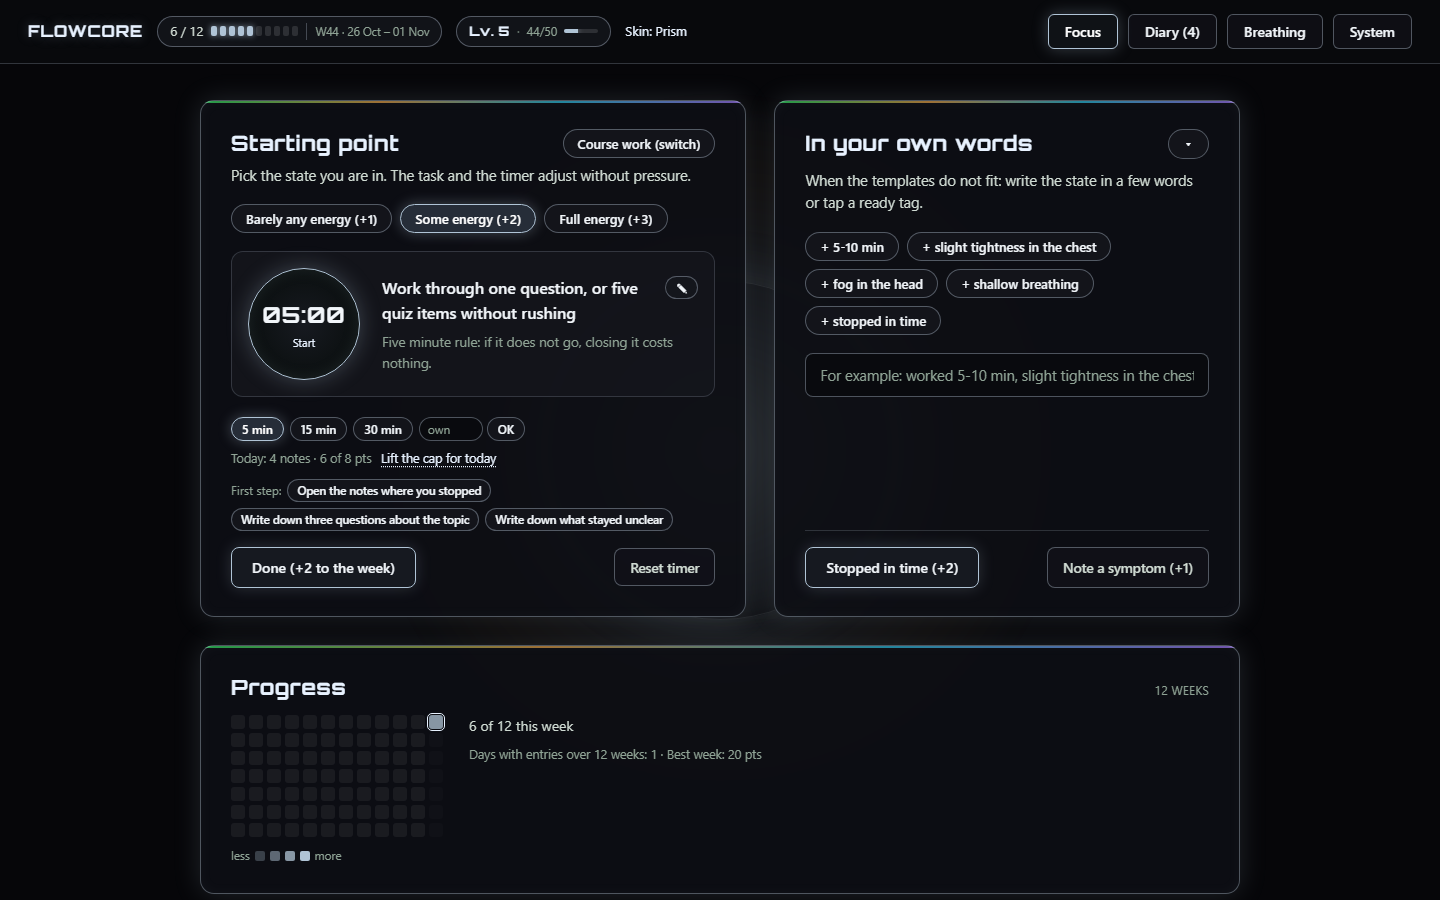
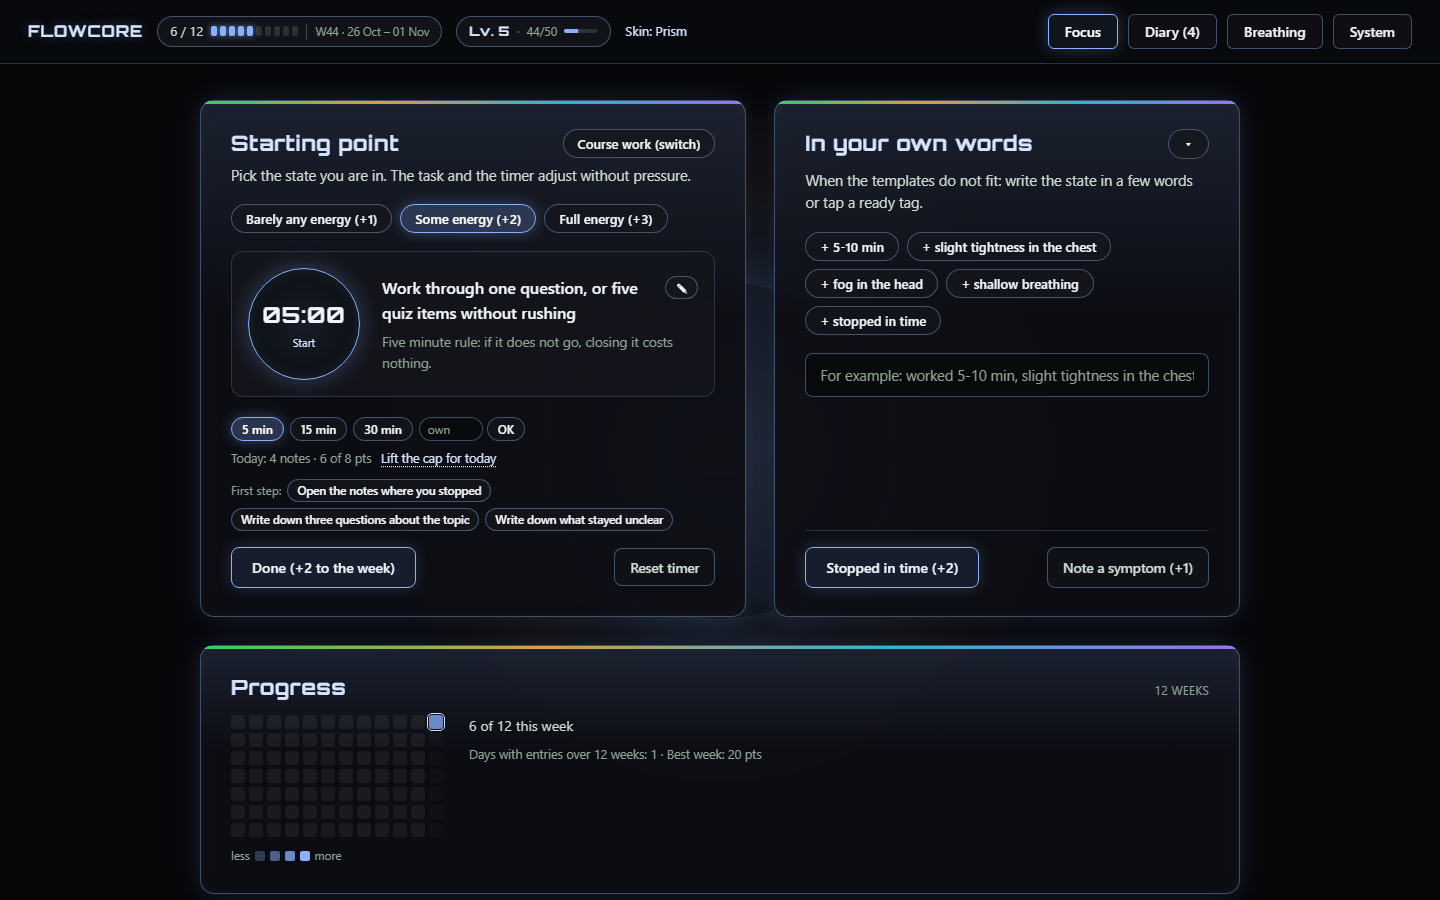
docs(flowcore): the screenshots show the blue prism and the diary emoji row
Prism changed colour, so the shot that claims to show it had to change too, and
the diary now carries a row of signs under the quick note. The text gained the
System switch for that row, the blue-violet palette, and numbers that match the
file: 333 KB, 98 KB over gzip, 415 checks.

diff --git a/README.ru.md b/README.ru.md
@@ -8,7 +8,7 @@
 
 *English version: [README.md](README.md).*
 
-Выбери сферу, скажи, сколько сегодня сил, и сделай один пятиминутный шаг. Очки копятся на неделю, пропущенный день ничего не отнимает, а ранний стоп считается отдыхом, а не провалом. Всё приложение — один HTML-файл на 329 КБ: без сборки, сервера и зависимостей.
+Выбери сферу, скажи, сколько сегодня сил, и сделай один пятиминутный шаг. Очки копятся на неделю, пропущенный день ничего не отнимает, а ранний стоп считается отдыхом, а не провалом. Всё приложение — один HTML-файл на 333 КБ: без сборки, сервера и зависимостей.
 
 ## Что умеет
 
@@ -23,7 +23,7 @@
 
 **Первый шаг вместо «поработать».** К задаче прилагаются три конкретных физических действия («открыть редактор», «прочитать последний абзац»). Пять минут считаются работой, даже если дальше не пошло.
 
-**Заметка прямо у задачи.** Карандаш рядом с задачей открывает строку на месте, с восемью эмодзи, которые вставляются в текст. Заметка ложится в дневник под названием сферы и очков не даёт: это память, а не выполненный шаг.
+**Заметка прямо у задачи.** Карандаш рядом с задачей открывает строку на месте, с восемью эмодзи, которые вставляются в текст. Заметка ложится в дневник под названием сферы и очков не даёт: это память, а не выполненный шаг. Ряд эмодзи необязателен и выключается в «Системе»; в быстрой пометке дневника те же восемь знаков.
 
 **Вторая карточка уходит с дороги.** «Своими словами» сворачивается в полосу и отдаёт ширину таймеру, выбор запоминается. По умолчанию она развёрнута: прятать способ записать — не моё решение.
 
@@ -33,7 +33,7 @@
 
 **Мягкий потолок дня: 8 очков.** После него записи идут дальше, но очки не растут — длина работы перестаёт быть единственной наградой. На хорошем дне потолок снимается одним кликом на строке «сегодня» до полуночи, а назавтра включается сам. Есть опция «очки только за отработанное время»: «Выполнено» даст очки, только если таймер честно отработал 5 минут.
 
-**Уровень за всё время.** 10 опыта = уровень; опыт считается из всех очков за всю историю и не сгорает с неделей. Уровень открывает скины: изумруд (1), янтарь (3), призма (5), кибер (6), аврора (10) — каждый меняет палитру целиком, включая фоновую пульсацию. У призмы панель нейтральная, а по верху каждой карточки идёт тонкая статичная полоса из всех четырёх палитр.
+**Уровень за всё время.** 10 опыта = уровень; опыт считается из всех очков за всю историю и не сгорает с неделей. Уровень открывает скины: изумруд (1), янтарь (3), призма (5), кибер (6), аврора (10) — каждый меняет палитру целиком, включая фоновую пульсацию. У призмы панель сине-фиолетовая, а по верху каждой карточки идёт статичная полоса из всех четырёх палитр.
 
 **Отдых приносит очки.** За спокойный вчерашний день (≤6 очков) или за «вовремя остановился» начисляется заряд отдыха (до 3). Заряд добавляет +1 к следующему шагу внутри дневного лимита — быстрее закрыть норму и пойти отдыхать, а не сидеть дольше.
 
@@ -116,7 +116,7 @@ python serve.py --lan      # доступ в домашней сети по http
 node tests/run.js
 ```
 
-Сейчас **403 проверки**: недельный ролловер и архив, миграция старых бэкапов, замок, дневной потолок и его снятие на день, уровень и скины, резерв, бонус отдыха, заметка к задаче и набор эмодзи, методики дыхания и фазы, шум с общим выключателем звука, экспорт в Markdown, редактор сфер, интервью первого запуска, словарь на четыре языка (все ключи из разметки и кода на месте, склонения через `Intl.PluralRules`). Тесты вырезают скрипт из настоящего `flowcore.html`, поэтому проверяют именно тот файл, который открывает браузер.
+Сейчас **415 проверок**: недельный ролловер и архив, миграция старых бэкапов, замок, дневной потолок и его снятие на день, уровень и скины, резерв, бонус отдыха, заметка к задаче и набор эмодзи, методики дыхания и фазы, шум с общим выключателем звука, экспорт в Markdown, редактор сфер, интервью первого запуска, словарь на четыре языка (все ключи из разметки и кода на месте, склонения через `Intl.PluralRules`). Тесты вырезают скрипт из настоящего `flowcore.html`, поэтому проверяют именно тот файл, который открывает браузер.
 
 Те же проверки запускаются на GitHub Actions при каждом push и pull request — файл `.github/workflows/tests.yml`. Сборки нет, поэтому шагов всего три: checkout, Node, `node tests/run.js`.
 
@@ -125,7 +125,7 @@ node tests/run.js
 - Интерфейс на четырёх языках — русский, украинский, английский, немецкий. Новый язык — это ещё одна колонка в словаре, но готового перевода на другие пока нет.
 - Данные живут в одном браузере: очистка профиля или «сайт-данных» их удалит. Раз в неделю стоит скачивать бэкап JSON.
 - Синхронизации между устройствами нет — это осознанно, чтобы не появлялось сервера и аккаунта.
-- Всё в одном файле: правки удобны, но файл уже большой — около 329 КБ, в gzip примерно 96 КБ.
+- Всё в одном файле: правки удобны, но файл уже большой — около 333 КБ, в gzip примерно 98 КБ.
 
 ## Лицензия
 

diff --git a/README.md b/README.md
@@ -8,7 +8,7 @@
 
 *Русская версия: [README.ru.md](README.ru.md).*
 
-Pick one of your areas, say how much energy you have today, and do a single five-minute step. Points collect over the week, a missed day takes nothing away, and an early stop counts as rest, not as failure. The whole app is one 329 KB HTML file: no build, no server, no dependencies.
+Pick one of your areas, say how much energy you have today, and do a single five-minute step. Points collect over the week, a missed day takes nothing away, and an early stop counts as rest, not as failure. The whole app is one 333 KB HTML file: no build, no server, no dependencies.
 
 ## What it does
 
@@ -23,7 +23,7 @@ If you are in a hurry:
 
 **A first step instead of "go work".** Each task comes with three concrete physical actions: open the editor, read the last paragraph, write down one question. Five minutes count as work even if you stop right there.
 
-**A note on the task itself.** The pencil next to the task opens a line right there, with eight emoji that insert into the text. The note lands in the diary under the area's name and gives no points: it is memory, not a finished step.
+**A note on the task itself.** The pencil next to the task opens a line right there, with eight emoji that insert into the text. The note lands in the diary under the area's name and gives no points: it is memory, not a finished step. The row of emoji is optional and switches off in System; the quick note in the diary offers the same eight signs.
 
 **The second card steps aside.** "In your own words" collapses into a strip and hands its width to the timer, and the choice is remembered. It starts expanded, because hiding a way to log is not a decision to make for someone else.
 
@@ -33,7 +33,7 @@ If you are in a hurry:
 
 **A soft cap of 8 points a day.** Past it, notes keep going in and points stop growing, so the length of work stops being the only reward. On a day that is going well the cap can be lifted until midnight with one click on the today line; the next day it is back on its own. An optional strict mode gives points only for the time the timer actually ran.
 
-**A level for all time.** 10 experience points make a level, counted from every point you ever earned, so a new week does not burn it. Levels unlock skins: emerald (1), amber (3), prism (5), cyber (6), aurora (10). Each one changes the whole palette, the background pulse included; prism keeps the panel neutral and gives each card a thin static line of all four palettes.
+**A level for all time.** 10 experience points make a level, counted from every point you ever earned, so a new week does not burn it. Levels unlock skins: emerald (1), amber (3), prism (5), cyber (6), aurora (10). Each one changes the whole palette, the background pulse included; prism turns the panel blue-violet and gives each card a thin static line of all four palettes.
 
 **Rest earns points.** A calm yesterday (6 points or fewer) or an early stop charges the rest bonus, up to 3. A charge adds +1 to your next step inside the daily cap, which closes the day sooner instead of pushing you to sit longer.
 
@@ -116,7 +116,7 @@ On Windows, `FlowCore.cmd` does the same from a double click.
 node tests/run.js
 ```
 
-There are **403 checks**: week rollover and the archive, migration of older backups, the lock, the daily cap and lifting it for a day, level and skins, the reserve, the rest bonus, the task note and its emoji set, breathing techniques and their phases, noise under the master sound switch, Markdown export, the area editor, the first-run interview, and the dictionary in four languages (every key from the markup and the code exists, plurals go through `Intl.PluralRules`). The tests cut the script out of the real `flowcore.html`, so they check the file the browser actually opens.
+There are **415 checks**: week rollover and the archive, migration of older backups, the lock, the daily cap and lifting it for a day, level and skins, the reserve, the rest bonus, the task note and its emoji set, breathing techniques and their phases, noise under the master sound switch, Markdown export, the area editor, the first-run interview, and the dictionary in four languages (every key from the markup and the code exists, plurals go through `Intl.PluralRules`). The tests cut the script out of the real `flowcore.html`, so they check the file the browser actually opens.
 
 The same checks run on GitHub Actions for every push and pull request, see `.github/workflows/tests.yml`. There is no build, so the job is three steps.
 
@@ -125,7 +125,7 @@ The same checks run on GitHub Actions for every push and pull request, see `.git
 - Four interface languages: Russian, Ukrainian, English, German. Another language is one more column in the dictionary, but no other translation exists yet.
 - Data lives in one browser. Clearing the profile or the site data removes it, so download a JSON backup every week or so.
 - There is no sync between devices, on purpose, so that no server and no account appear.
-- Everything is one file. Edits stay convenient, but the file is already large: about 329 KB, roughly 96 KB over the wire with gzip.
+- Everything is one file. Edits stay convenient, but the file is already large: about 333 KB, roughly 98 KB over the wire with gzip.
 
 ## License
 
